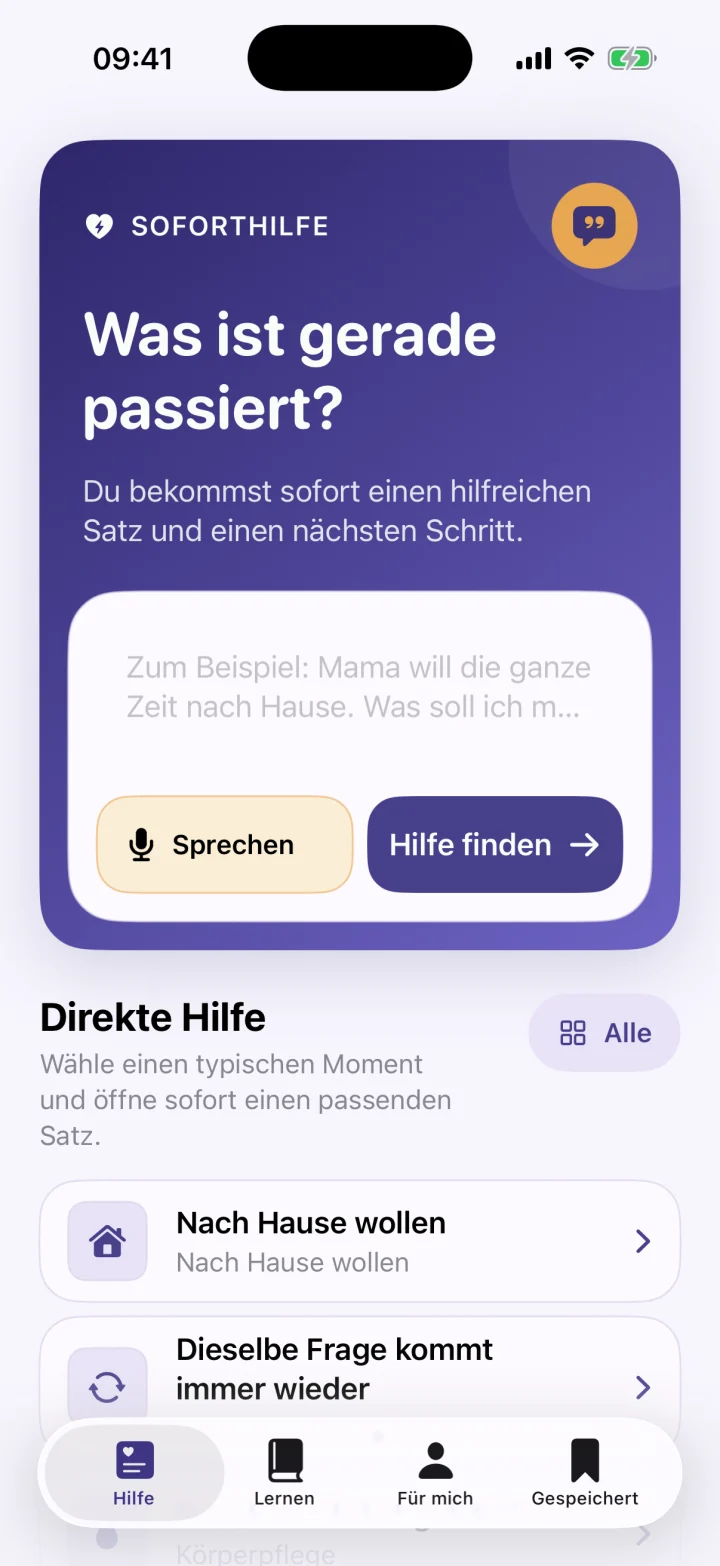
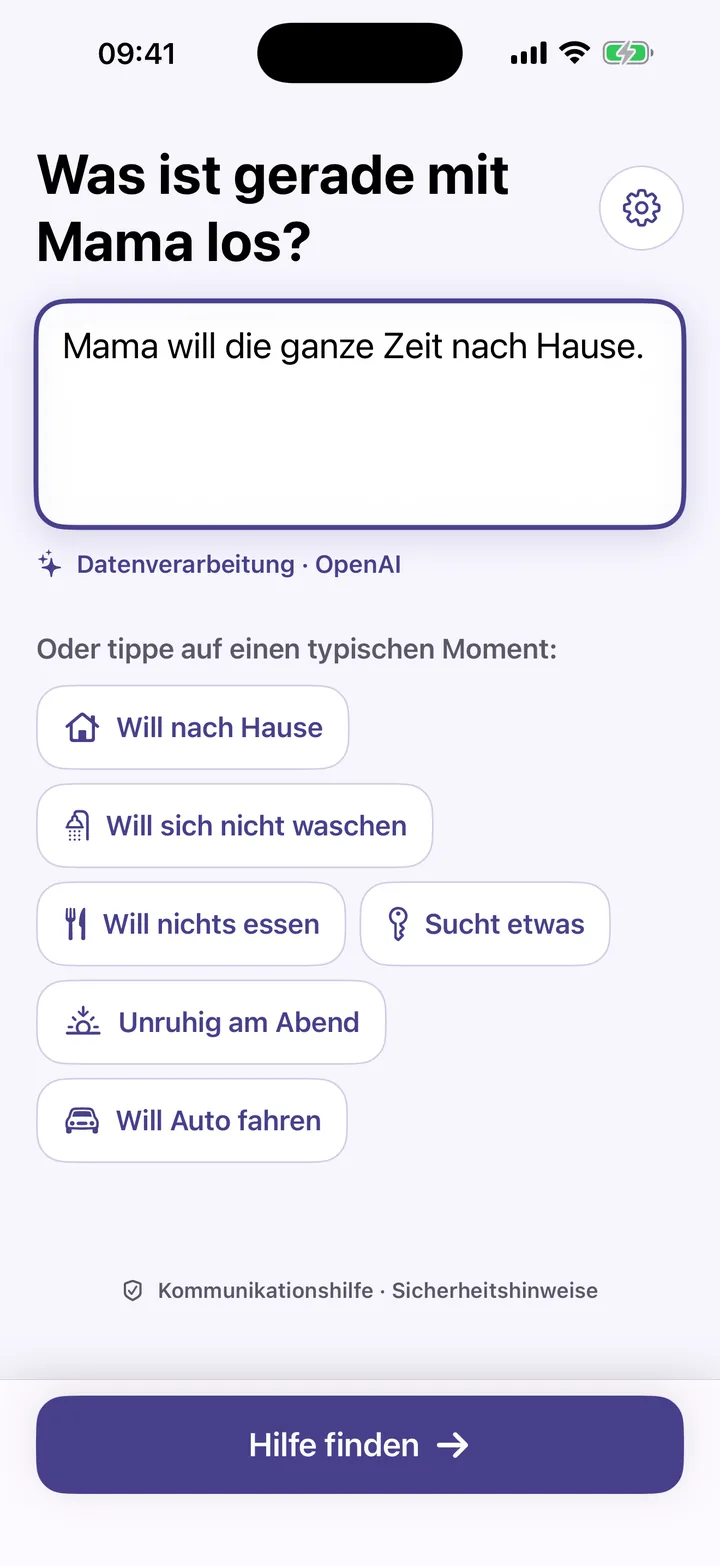
Angebotsseite und /hilfe/: aktuelle App-Bildschirme statt alter Screens
Daniel 27. Nov: Die Landingpage zeigt noch alte iOS-App-Screens.
Neue Bilder aus den echten Simulator-Aufnahmen der aktuellen App (wie im App Store):
Antwort mit Sprechblase, Eingabe, Zielwahl, persönliche Antwort, Mikrofon, Abend.
Alte Übungs-, Lernplan- und Soforthilfe-Bilder entfernt; app-de-help/app-de-result neu.

Claude-Session: https://claude.ai/code/session_01Hb2krXbqe4nt4mnJ72qmMV

diff --git a/hilfe/index.html b/hilfe/index.html
@@ -81,17 +81,17 @@
         <h2>So funktioniert es</h2>
         <ol class="lp-steps">
           <li>
-            <img src="/assets/angebot/app-help.webp" width="720" height="1566" alt="Startseite der App mit der Frage: Was ist gerade passiert?" loading="lazy">
+            <img src="/assets/angebot/app-schreiben.webp" width="720" height="1566" alt="Startseite der App mit der Frage: Was ist gerade mit Mama los? Darin steht: Mama packt jeden Abend ihre Tasche, weil sie angeblich zur Arbeit muss." loading="lazy">
             <h3><b>1</b> Beschreibe den Moment</h3>
-            <p>Tippe oder sprich. Zum Beispiel: „Mama will die ganze Zeit nach Hause.“</p>
+            <p>Tippe oder sprich. Zum Beispiel: „Mama packt jeden Abend ihre Tasche.“</p>
           </li>
           <li>
-            <img src="/assets/angebot/app-result.webp" width="720" height="1566" alt="Antwort der App mit einem Satz zum Sagen und einem nächsten kleinen Schritt" loading="lazy">
+            <img src="/assets/angebot/app-antwort.webp" width="720" height="1566" alt="Antwort der App: Mama sagt „Ich will nach Hause!“. Darunter ein ruhiger Satz zum Sagen und was danach hilft." loading="lazy">
             <h3><b>2</b> Lies, was du sagen kannst</h3>
             <p>Ein Satz für den Moment. Dazu eine kleine Idee für danach.</p>
           </li>
           <li>
-            <img src="/assets/angebot/ueben-waehlen.webp" width="720" height="1566" alt="Übung in der App: Die Mutter sagt: Ich will nach Hause. Du wählst eine Antwort." loading="lazy">
+            <img src="/assets/angebot/app-antwort-persoenlich.webp" width="720" height="1566" alt="Persönliche Antwort der App mit Knöpfen zum Nachfragen: Verstehen, wie der Verdacht entsteht, und Tipps." loading="lazy">
             <h3><b>3</b> Frag nach oder übe</h3>
             <p>Passt der Satz nicht? Frag weiter. Oder übe das Gespräch vorher in Ruhe.</p>
           </li>

diff --git a/start/start.js b/start/start.js
@@ -919,13 +919,14 @@
 
     // Bilder aus dem Plan wie BetterMe: echte Bildschirme in hellen Handy-Rahmen. Das mittlere Handy ist groß, die Nachbarn schauen
     // seitlich hervor, darunter Punkte, kein Text (Daniel 20. Nov: „kleiner wie bei BetterMe, ohne Text darunter“). Der Text bleibt als Alt-Text.
+    // Daniel 27. Nov: Bildschirme der aktuellen App (wie im App Store), keine alten Übungs- oder Lernplan-Bilder.
     const shotList = [
-      ["ueben-waehlen", "Antwort wählen"],
-      ["ueben-rueckmeldung", "Sofort Rückmeldung"],
-      ["ueben-geschafft", "Die Person wird ruhig"],
-      ["app-result", "Passende Sätze"],
-      ["app-plan", "Jeden Tag ein Schritt"],
-      ["app-help", "Soforthilfe"]
+      ["app-antwort", "Mama sagt: Ich will nach Hause. Die App zeigt einen ruhigen Satz und was danach hilft."],
+      ["app-schreiben", "Schreib in eigenen Worten, was gerade los ist."],
+      ["app-ziel", "Wähle, was du gerade brauchst: beruhigen, verstehen oder Tipps."],
+      ["app-antwort-persoenlich", "Deine persönliche Antwort, passend zu dem, was du schreibst."],
+      ["app-sprechen", "Oder sprich einfach ein. Ein Tipp aufs Mikrofon genügt."],
+      ["app-abend", "Unruhig am Abend: ein ruhiger Satz und ein nächster Schritt."]
     ];
     const slides = shotList.map(([file, caption], index) => el("figure", { class: index === 0 ? "is-on" : "" }, [
       el("span", { class: "start-phone" }, [el("img", { src: `/assets/angebot/${file}.webp`, width: "720", height: "1566", loading: index < 3 ? "eager" : "lazy", decoding: "async", alt: caption })])

diff --git a/de/app/index.html b/de/app/index.html
@@ -101,7 +101,7 @@
           <p class="dl-cta-note">Für iPhone · Auf Deutsch · Download im App Store</p>
         </div>
         <figure class="dl-preview">
-          <div class="dl-preview-crop"><img src="/assets/app-de-help.webp" width="720" height="1566" fetchpriority="high" decoding="async" alt="Startbildschirm der App: Soforthilfe mit der Frage „Was ist gerade passiert?“, Eingabefeld, Sprechen-Taste und der Liste „Direkte Hilfe“ mit typischen Momenten wie „Nach Hause wollen“."></div>
+          <div class="dl-preview-crop"><img src="/assets/app-de-help.webp" width="720" height="1566" fetchpriority="high" decoding="async" alt="Startbildschirm der App mit der Frage „Was ist gerade mit Mama los?“, Eingabefeld und typischen Momenten wie „Will nach Hause“."></div>
           <figcaption>Ausschnitt aus der deutschen App</figcaption>
         </figure>
       </div>
